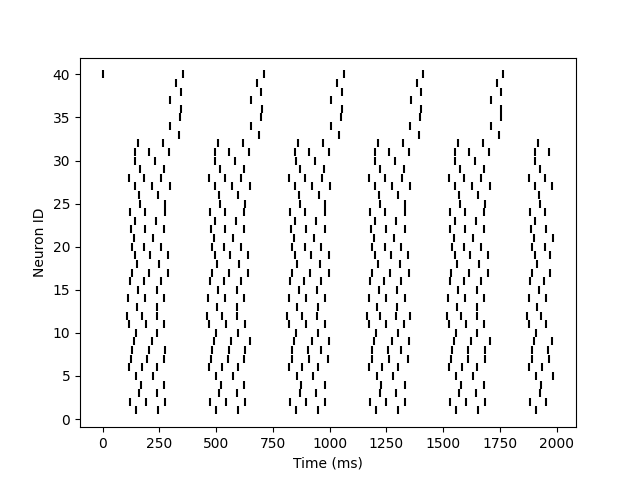
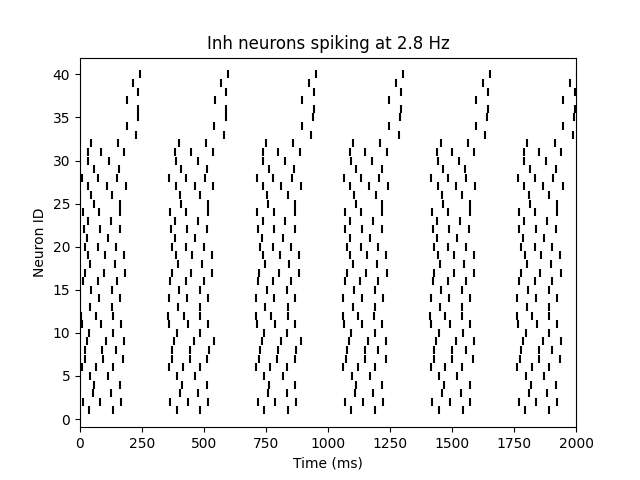
added input

diff --git a/python_scripts/oscillator+input.py b/python_scripts/oscillator+input.py
@@ -13,6 +13,7 @@ import numpy as np
 import matplotlib.pyplot as plt
 
 from utils import gen_param_group_1core, gaussian_recurrent_excitation
+from ADM import ADM
 
 # open DYNAP-SE1 board to get Dynapse1Model
 device_name = "my_dynapse1"
@@ -51,9 +52,12 @@ model.update_parameter_group(paramGroupInh, chip_id, core_id_inh)
 exc_offset = 1 # lowest excitatory neuron id
 num_exc = 32
 num_inh = 8
-input_rates = [20, 40, 60, 80, 100, 120]
-duration = 10
-spike_gen_id = 50
+input_rates = np.linspace(1, 4, 15)
+osc_input_rate = 60
+duration = 5
+spike_gen_osc_id = 50
+spike_gen_in_up_id = 51
+spike_gen_in_dn_id = 52
 ei_rate = 1 # probability of an excitatory synapse between any pair of excitatory and inhibitory neurons
 ie_rate = 1 # probability of an inhibitory synapse between any pair of excitatory and inhibitory neurons
 nids_exc = range(exc_offset, num_exc + exc_offset)
@@ -63,14 +67,18 @@ nids_inh = range(1, num_inh + 1)
 # init a network generator
 net_gen = n.NetworkGenerator()
 
-# create spikegen
-spikegen = Neuron(chip_id, core_id_exc, spike_gen_id, True)
+# create spikegens
+spikegen_osc = Neuron(chip_id, core_id_exc, spike_gen_osc_id, True)
+spikegen_input_up = Neuron(chip_id, core_id_exc, spike_gen_in_up_id, True)
+spikegen_input_dn = Neuron(chip_id, core_id_exc, spike_gen_in_dn_id, True)
 
-# create excitatory population, connect them to spikegen
+# create excitatory population, connect them to spikegens
 exc_neurons = []
 for nid_exc in nids_exc:
     exc_neuron = Neuron(chip_id, core_id_exc, nid_exc)
-    net_gen.add_connection(spikegen, exc_neuron, dyn1.Dynapse1SynType.AMPA)
+    net_gen.add_connection(spikegen_osc, exc_neuron, dyn1.Dynapse1SynType.AMPA)
+    net_gen.add_connection(spikegen_input_up, exc_neuron, dyn1.Dynapse1SynType.AMPA)
+    net_gen.add_connection(spikegen_input_dn, exc_neuron, dyn1.Dynapse1SynType.GABA_B)
     exc_neurons.append(exc_neuron)
 
 # create inhibitory population and ei connections
@@ -109,22 +117,46 @@ monitored_global_nids_inh = [ut.get_global_id(chip_id, core_id_inh, nid_inh) for
 monitored_global_nids = monitored_global_nids_exc + monitored_global_nids_inh
 
 
-# set up spike generator
-spikegen_global_id = ut.get_global_id(chip_id, core_id_exc, spike_gen_id)
+# set up oscillator spike generator
+spikegen_osc_global_id = ut.get_global_id(chip_id, core_id_exc, spike_gen_osc_id)
 fpga_spike_gen = model.get_fpga_spike_gen()
 isi_base = 900
 repeat_mode=False
 
+spike_count = osc_input_rate * duration 
+spike_times_osc = np.linspace(0, duration, spike_count)
+indices_osc = [spikegen_osc_global_id]*len(spike_times_osc)
+target_chips_osc = [chip_id]*len(indices_osc)
+
+output_rates = []
 for input_rate in input_rates:
-    print('input rate', input_rate, 'Hz')
+    print('input signal frequency:', input_rate)
+    # set up input spike generators
+    input_signal = np.sin(np.arange(0, duration, 1 / 64) * input_rate * 2 * np.pi)
+    up_spikes, down_spikes = ADM(
+            input_signal,
+            up_threshold=0.1,
+            down_threshold=0.1,
+            sampling_rate=64,
+            refractory_period=0
+    )
 
-    # set up the fpga_spike_gen
-    spike_count = input_rate * duration 
-    spike_times = np.linspace(0, duration, spike_count)
-    indices = [spikegen_global_id]*len(spike_times)
-    target_chips = [chip_id]*len(indices)
-    ut.set_fpga_spike_gen(fpga_spike_gen, spike_times, indices, target_chips, isi_base, repeat_mode)
+    # up
+    spikegen_in_up_global_id = ut.get_global_id(chip_id, core_id_exc, spike_gen_in_up_id)
+    indices_up = [spikegen_in_up_global_id]*len(up_spikes)
+    target_chips_up = [chip_id]*len(indices_up)
 
+    # down
+    spikegen_in_dn_global_id = ut.get_global_id(chip_id, core_id_exc, spike_gen_in_dn_id)
+    indices_dn = [spikegen_in_dn_global_id]*len(down_spikes)
+    target_chips_dn = [chip_id]*len(indices_dn)
+
+
+    spike_times = np.concatenate([spike_times_osc, up_spikes, down_spikes])
+    indices = np.concatenate([indices_osc, indices_up, indices_dn])
+    target_chips = np.concatenate([target_chips_osc, target_chips_up, target_chips_dn])
+    order = np.argsort(spike_times)
+    ut.set_fpga_spike_gen(fpga_spike_gen, spike_times[order], indices[order], target_chips[order], isi_base, repeat_mode)
 
     # create a graph to monitor the spikes of this neuron
     graph, filter_node, sink_node = ut.create_neuron_select_graph(model, monitored_global_nids)
@@ -132,7 +164,7 @@ for input_rate in input_rates:
     # start graph
     graph.start()
 
-    # start the stimulus
+    # start spikegens
     fpga_spike_gen.start()
 
     # ------------ get events -----------
@@ -144,8 +176,9 @@ for input_rate in input_rates:
     events = sink_node.get_buf()
     # ------------ get events -----------
 
-    # stop the stimulus
+    # stop spikegens
     fpga_spike_gen.stop()
+
     # stop graph
     graph.stop()
 
@@ -153,25 +186,26 @@ for input_rate in input_rates:
     len_events = len(events)
     holder = np.zeros([len_events,2])
     counter = np.zeros(num_exc + num_inh + exc_offset)
-    
+
     for i, evt in enumerate(events):
         holder[i,:] = [evt.core_id * max(nids_exc) + evt.neuron_id, (evt.timestamp - events[0].timestamp)]
         counter[evt.core_id * max(nids_exc) + evt.neuron_id] += 1
     rates = counter / duration
+    output_rates.append(rates[-1])
     print('rates', rates)
 
 
     plt.scatter(holder[:,1]/1e3, holder[:,0], marker='|',color='k')
     plt.xlabel('Time (ms)')
     plt.ylabel('Neuron ID')
-    plt.title('Inh neurons spiking at {} Hz'.format(rates[-1]))
-    plt.xlim(0, 2000)
-    plt.savefig('./plots/oscillator_spikes_' + str(round(input_rate, 2))+ 'Hz')
+    plt.title('Oscillator fixed input: {}, Input sine wave: {}'.format(osc_input_rate, input_rate))
+    plt.savefig('./plots/oscillator+input_spikes_' + str(round(osc_input_rate, 2))+ 'Hz_' + str(round(input_rate, 2))+ 'Hz.png')
     plt.close()
-    np.save('./data/oscillator_holder_' + str(round(input_rate, 2))+ 'Hz', holder)
 
-
-    np.save('./data/oscillator_counter_' + str(round(input_rate, 2)) + 'Hz', counter)
+plt.plot(input_rates, output_rates)
+plt.xlabel('Frequency of input sinusoid [Hz]')
+plt.ylabel('Spiking frequency of inhibitory neuron [Hz]')
+plt.savefig('./plots/oscillator+input_spikes+across_frequencies')
 
 # close Dynapse1
 ut.close_dynapse1(store, device_name)
